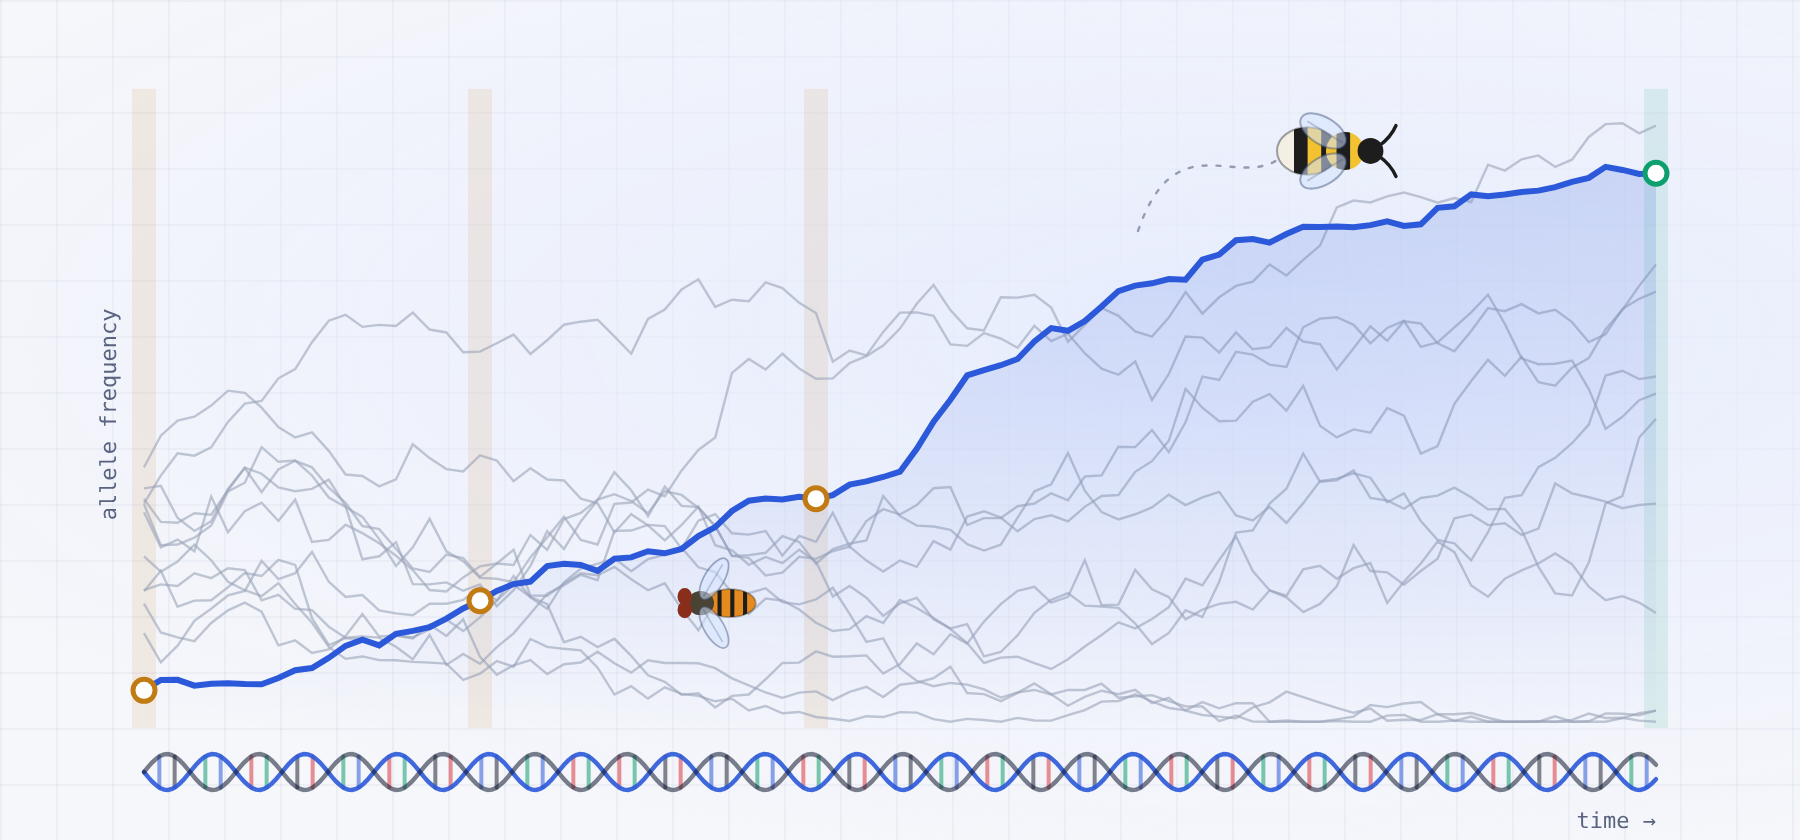
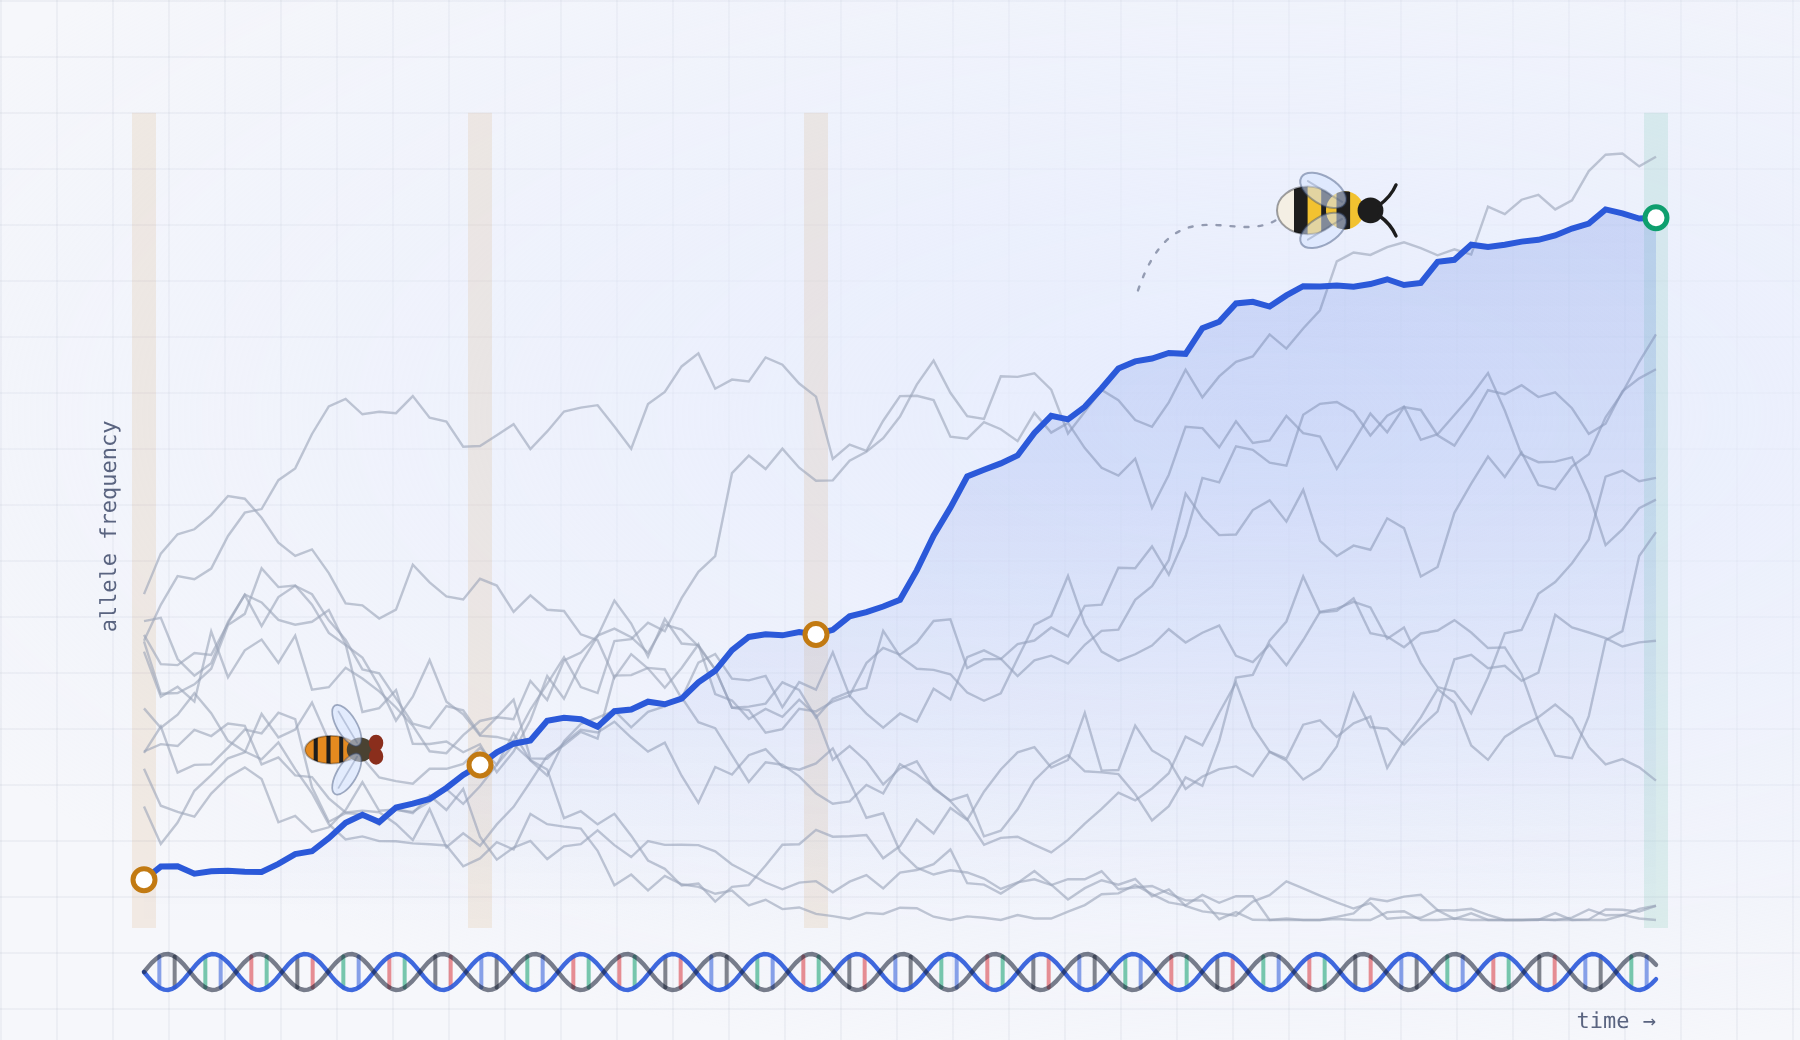
Illustration (app and README): hoverfly heading forward in time, above the selected allele near the first sampling date; README image a little taller (about 1.7:1)

diff --git a/index.html b/index.html
@@ -1246,8 +1246,8 @@ setTimeout(()=>{$('sweep-run').click();setTimeout(()=>{$('sex-run').click();ranO
     for(const sgn of [-1,1]) wing(c,5,2,sgn,Math.PI-0.42-0.25*flap,15,4);
     c.restore();
   }
-  function hoverfly(c,x,y,s,flap){ // generic hoverfly, seen from above, heading left
-    c.save(); c.translate(x,y); c.scale(-s,s);
+  function hoverfly(c,x,y,s,flap){ // generic hoverfly, seen from above, heading right (forward in time)
+    c.save(); c.translate(x,y); c.scale(s,s);
     // flat banded abdomen
     c.save(); c.beginPath(); c.ellipse(-5,0,9,4.8,0,0,Math.PI*2); c.clip();
     const bands=['#E58A1F','#1d1d1d','#E58A1F','#1d1d1d','#E58A1F','#1d1d1d','#E58A1F']; const wd=[3,1.4,3,1.4,3,1.4,6]; let xx=-14; bands.forEach((col,i)=>{c.fillStyle=col; c.fillRect(xx,-6,wd[i]+.2,12); xx+=wd[i];}); c.restore();
@@ -1290,7 +1290,7 @@ setTimeout(()=>{$('sweep-run').click();setTimeout(()=>{$('sex-run').click();ranO
     c.setLineDash([2,5]); c.strokeStyle=css('--muted'); c.globalAlpha=.6; c.lineWidth=1.2; c.beginPath();
     c.moveTo(bx-95,by+40); c.bezierCurveTo(bx-75,by-18,bx-42,by+24,bx-20,by); c.stroke(); c.setLineDash([]); c.globalAlpha=1;
     bee(c,bx,by,Math.max(1,Math.min(1.7,W/360)),flap);
-    const gH=Math.round(G*0.38), hx=X(gH/G), hy=Y(neutral[3][gH])-30-(reduce?0:Math.sin(t*1.7+1)*3);
+    const gH=Math.round(G*0.13), hx=X(gH/G), hy=Y(sel[gH])-34-(reduce?0:Math.sin(t*1.7+1)*3);
     hoverfly(c,hx,hy,Math.max(.95,Math.min(1.45,W/400)),flap2);
     if(!reduce) raf=requestAnimationFrame(frame);
   }

diff --git a/assets/make_illustration.js b/assets/make_illustration.js
@@ -2,7 +2,7 @@
 // Run from the root of the repository: node assets/make_illustration.js   (needs Playwright and ffmpeg)
 // The drawing code is taken from index.html; only the motion speeds are rounded so that the animation loops without a jump.
 const {chromium}=require('playwright'), fs=require('fs'), path=require('path'), {execSync}=require('child_process');
-const W=900, H=420, DPR=2, FPS=20, SECONDS=6;                 // size in CSS pixels, pixel density, frames per second, loop length
+const W=900, H=520, DPR=2, FPS=20, SECONDS=6;                 // size in CSS pixels, pixel density, frames per second, loop length
 const OUT=path.resolve('assets'), TMP=fs.mkdtempSync('/tmp/spot_gif_');
 const html=fs.readFileSync('index.html','utf8');
 let code=html.slice(html.indexOf("const cv=document.getElementById('trace')"), html.indexOf("start(); let tm"));
